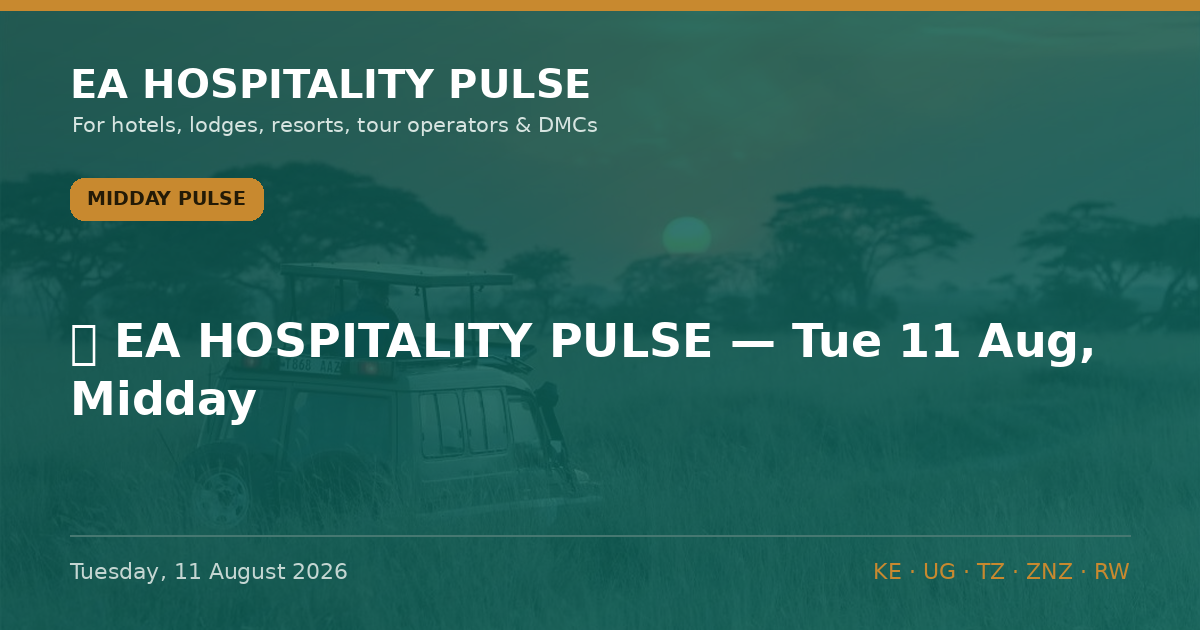
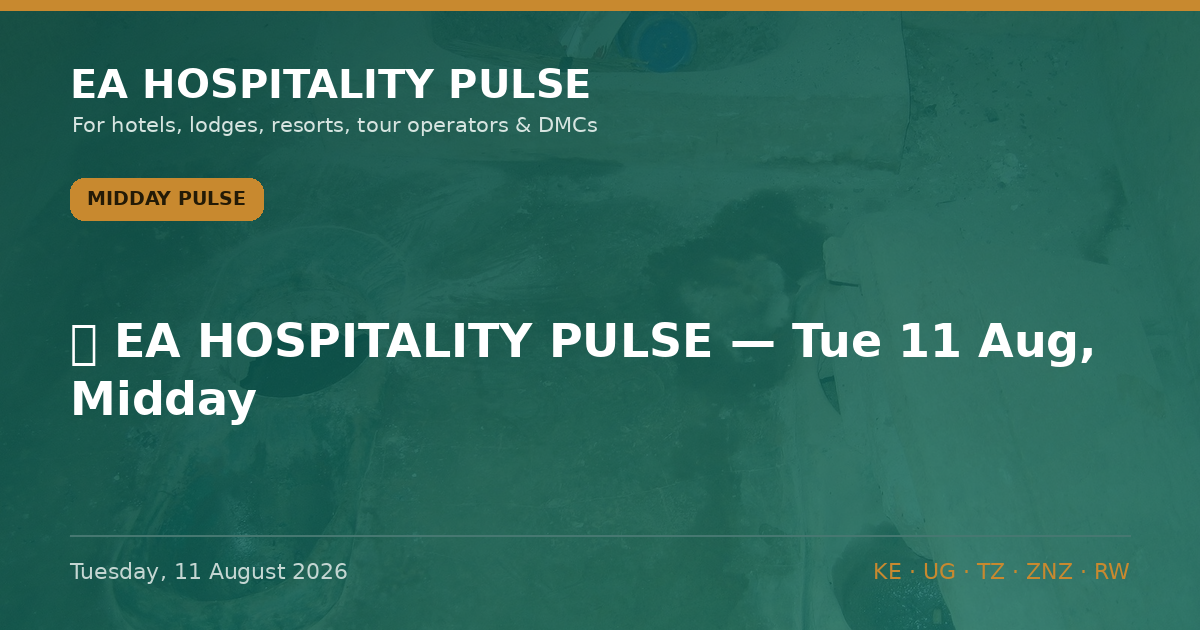
Auto-build: 2026-08-11 09:28 UTC

diff --git a/editions/pulse-2026-08-11-midday.html b/editions/pulse-2026-08-11-midday.html
@@ -73,7 +73,7 @@ footer.s{text-align:center;color:var(--muted);font-family:Helvetica Neue,Arial,s
 <div class="wrap">
   <article class="art">
     <img class="hero" src="../og/pulse-2026-08-11-midday-clean.png" alt="Midday Pulse — Tuesday, 11 August 2026" loading="eager">
-    
+    <p class="hcredit">Photo: SuSanA Secretariat · <a href="https://commons.wikimedia.org/wiki/File:Cubicle_in_UDDT_at_Kampala_City_Councel_(KCC)_Project_(3482585391).jpg" target="_blank" rel="noopener nofollow">Wikimedia Commons</a> · <a href="https://creativecommons.org/licenses/by/2.0" target="_blank" rel="noopener nofollow">CC BY 2.0</a></p>
     <a class="nav" href="../index.html#archive">← All editions</a>
     <div class="kicker"><span class="badge">Midday Pulse</span><time datetime="2026-08-11">Tuesday, 11 August 2026</time></div>
     <h1>🕛 EA HOSPITALITY PULSE — Tue 11 Aug, Midday.</h1>

diff --git a/index.html b/index.html
@@ -352,7 +352,7 @@
   .pl-brand{font-family:'Helvetica Neue',Arial,sans-serif;font-size:12px;font-weight:600;color:var(--muted);background:var(--sand-2);padding:2px 8px;border-radius:20px;margin-left:4px;white-space:nowrap}
   .pl-detail{font-size:14px;color:var(--muted);margin:6px 0 8px;line-height:1.55}
 </style>
-<!--BUILD_STAMP:20260811-1227--></head>
+<!--BUILD_STAMP:20260811-0928--></head>
 <body>
 <header class="site">
   <div class="wrap topbar">

diff --git a/data.js b/data.js
@@ -1816,4 +1816,4 @@ window.INSIGHTS = [
   "editionKey": "evening"
  }
 ];
-window.BUILT_AT = "2026-08-11 12:27";
+window.BUILT_AT = "2026-08-11 09:28";

diff --git a/ledger.js b/ledger.js
@@ -1,5 +1,5 @@
 window.LEDGER = {
- "updated": "2026-08-11 12:27",
+ "updated": "2026-08-11 09:28",
  "stats": {
   "total": 69,
   "open": 62,
